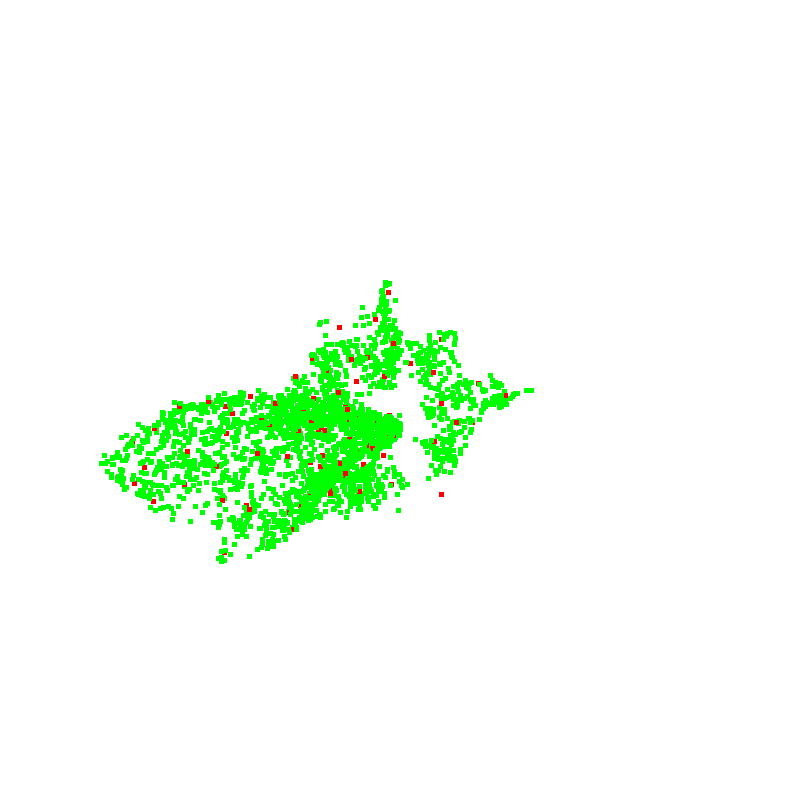
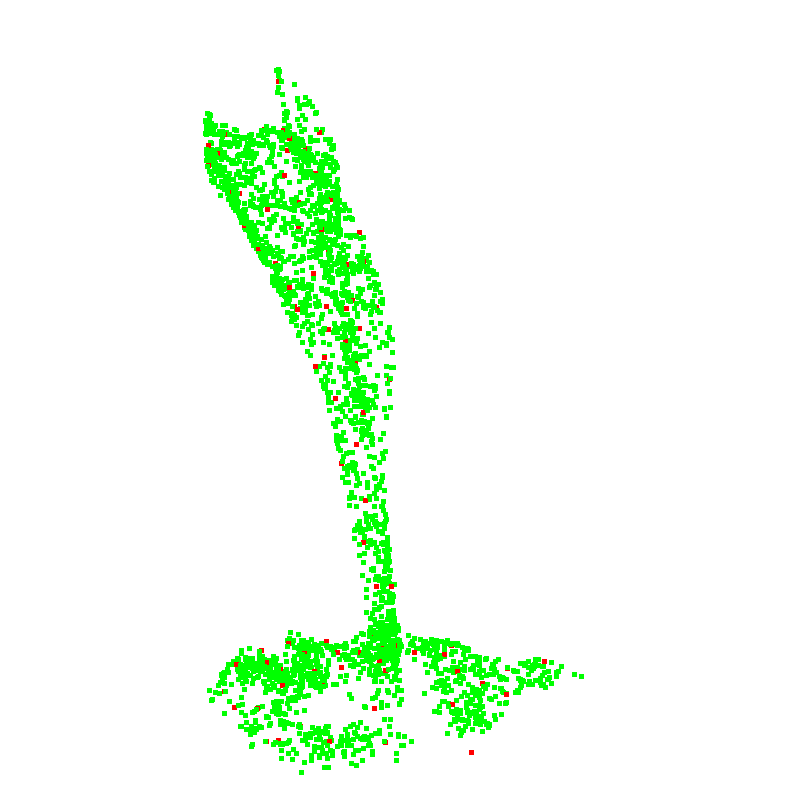
Readme Update

Changed region(s): [[0.125, 0.0938, 0.7188, 0.9688]]

diff --git a/vis3.py b/vis3.py
@@ -1,9 +1,9 @@
 #!/usr/bin/env python3
-# save_visualisations.py  —  v4
+# save_visualisations.py  —  v6 (Pheno4D rotated view)
 # ------------------------------------------------------------
 # • “SAT” folders   : render *candidate_inner_points* (green) vs *selected_inner_points* (red)
 # • non-SAT folders : render *processed*              (green) vs *selected_inner_points* (red)
-# • PNGs saved as: <SOURCE_FOLDER>_<BASE_ID>_<SAT|MLP>.png
+# • Pheno4D: rotate model 90° about X before capture
 # ------------------------------------------------------------
 import os
 from pathlib import Path
@@ -11,7 +11,6 @@ from pathlib import Path
 import numpy as np
 import open3d as o3d
 import trimesh
-from PIL import Image, ImageChops
 
 # ------------------------------------------------------------------
 # Configuration
@@ -24,18 +23,6 @@ FOLDERS     = [
 ]
 RESULTS_DIR = Path("./final-figures")
 RESULTS_DIR.mkdir(parents=True, exist_ok=True)
-
-# ------------------------------------------------------------------
-# Auto-crop white margins (Pillow)
-# ------------------------------------------------------------------
-def autocrop_white(fn: Path):
-    img = Image.open(fn)
-    # white background
-    bg = Image.new(img.mode, img.size, (255, 255, 255))
-    diff = ImageChops.difference(img, bg)
-    bbox = diff.getbbox()
-    if bbox:
-        img.crop(bbox).save(fn)
 
 # ------------------------------------------------------------------
 # Helper – Trimesh → coloured Open3D point cloud
@@ -58,7 +45,6 @@ for folder in FOLDERS:
         continue
 
     is_sat = "SAT" in folder.upper()
-
     if is_sat:
         search_glob  = "*candidate_inner_points*.obj"
         partner_from = "candidate_inner_points"
@@ -79,38 +65,44 @@ for folder in FOLDERS:
             print(f"No partner for {green_path.name} → expected {red_name}")
             continue
 
-        # ---- load meshes ----
+        # load meshes
         try:
             mesh_green = trimesh.load(green_path, process=False)
             mesh_red   = trimesh.load(red_path,   process=False)
         except Exception as e:
-            print(f" Failed loading {green_path.name}: {e}")
+            print(f"Failed loading {green_path.name}: {e}")
             continue
 
-        pcd_green = mesh_to_pcd(mesh_green, rgb=[0,1,0])  # green
-        pcd_red   = mesh_to_pcd(mesh_red,   rgb=[1,0,0])  # red
+        # convert to PCD
+        pcd_green = mesh_to_pcd(mesh_green, rgb=[0,1,0])
+        pcd_red   = mesh_to_pcd(mesh_red,   rgb=[1,0,0])
 
-        # ---- off-screen render ----
+        # Pheno4D: rotate 90° about X-axis
+        if folder.startswith("Pheno4D"):
+            # compute center for rotation
+            mins = np.minimum(pcd_green.get_min_bound(), pcd_red.get_min_bound())
+            maxs = np.maximum(pcd_green.get_max_bound(), pcd_red.get_max_bound())
+            center = (mins + maxs) * 0.5
+            # rotation matrix: -90° around X
+            R = pcd_green.get_rotation_matrix_from_xyz((-np.pi / 2, 0, 0))
+            pcd_green.rotate(R, center)
+            pcd_red.rotate(R, center)
+
+        # setup visualizer
         vis = o3d.visualization.Visualizer()
-        vis.create_window(
-            window_name=base_id,
-            width=800, height=800,
-            visible=False
-        )
+        vis.create_window(window_name=base_id, width=800, height=800, visible=False)
         vis.get_render_option().background_color = np.array([1,1,1])
         vis.add_geometry(pcd_green)
         vis.add_geometry(pcd_red)
+
         vis.poll_events()
         vis.update_renderer()
 
         suffix   = "SAT" if is_sat else "MLP"
-        # <-- include the folder name in the PNG filename here -->
         out_file = RESULTS_DIR / f"{folder}_{base_id}_{suffix}.png"
 
         vis.capture_screen_image(str(out_file), do_render=True)
         vis.destroy_window()
-
-        # autocrop_white(out_file)
 
         print(f"{green_label:9s} vs selected → {out_file}")
 

diff --git a/vis2.py b/vis2.py
@@ -3,9 +3,9 @@ import numpy as np
 #import rerun as rr
 import trimesh
 
-original_cloud_path = "./output/ScanNet/ScanNet_processed59.obj"
+original_cloud_path = "./output/Pheno4D/Shapenet_selected_inner_points1.obj"
 
-processed_cloud_path = "./output/ScanNet/ScanNet_selected_inner_points59.obj"
+processed_cloud_path = "./output/Pheno4D/Shapenet_processed1.obj"
 
 original_cloud = trimesh.load(original_cloud_path)
 processed_cloud = trimesh.load(processed_cloud_path)

diff --git a/README.md b/README.md
@@ -1,1 +1,100 @@
-# AI-517-Final
+# Solving the Set Cover Problem for 3D Shape Skeletonization
+
+![AI-517-Final](assets/skele.png)
+---
+
+## 🚀 Overview
+
+This repository implements a principled, end-to-end pipeline that casts 3D curve–skeleton extraction as a discrete **Set Cover Problem**. Starting from a raw surface point cloud, we:
+
+1. **Generate** a compact pool of interior ball-centers via adaptive Voronoi sampling.  
+2. **Dilate** each center until its ball first touches the surface.  
+3. **Search** for the _smallest_ subset of balls whose union covers all surface samples, via two complementary exact optimizers:  
+   - **MILP formulation** solved with a Mixed-Integer Linear Program.  
+   - **SAT formulation** solved with PySAT.
+
+Our experiments on **ScanNet**, **ShapeNet**, and **Pheno4D** demonstrate that the selected skeleton points are robust to noise and capture thin geometric features faithfully.
+
+---
+
+## 📂 Repository Structure
+
+```text
+AI-517-Final/
+├── input/                       ← raw datasets (not versioned)
+├── output/                      ← intermediate meshes & point-clouds
+│   ├── ScanNet/
+│   ├── ScanNet_SAT/
+│   ├── ShapeNet/
+│   ├── ShapeNet_SAT/
+│   ├── Pheno4D/
+│   └── Pheno4D_SAT/
+├── final-figures/               ← high-resolution visualizations
+├── coverage_axis_pc.py          ← MILP encoding & solver invocation
+├── coverage_axis_pc_sat.py      ← SAT encoding & solver invocation
+├── vis2.py                      ← initial point-cloud visualizer
+├── vis3.py                      ← advanced visualizer (front-view for Pheno4D)
+├── requirements.txt             ← Python dependencies
+└── README.md                    ← this file
+```
+
+⚙ Installation
+
+Clone the repository and install all dependencies in one step:
+
+```bash
+git clone https://github.com/your-username/AI-517-Final.git
+cd AI-517-Final
+python3 -m venv venv            # Create a virtual env (optional but recommended)
+source venv/bin/activate        # Activate it (Linux/macOS)
+# On Windows: .\venv\Scripts\activate
+pip install --upgrade pip
+pip install -r requirements.txt # Install all required packages
+```
+
+
+If you experience errors like `ModuleNotFoundError`, ensure your virtual environment is active and run:
+```bash
+pip install open3d trimesh pillow pulp pysat 
+```
+
+## 📝 Usage
+
+
+### 1. Preprocess & Sample
+
+Populate your raw `.obj` meshes under `input/`. Then run your favorite sampling tool (e.g., Poisson or Voronoi) to produce:
+
+- `*_processed*.obj` (input to MILP)  
+- `*_candidate_inner_points*.obj` (input to SAT)
+
+Place these under the corresponding subfolders in `output/`.
+
+### 2. Solve MILP
+
+```bash
+python coverage_axis_pc.py \
+  --input-folder output/ScanNet \
+  --output-skeleton skel_milp.txt
+```
+This will read all *_processed*.obj meshes, build the MILP, and write a list of selected ball-centers to skel_milp.txt.
+
+### 3. Solve SAT
+
+```bash
+python coverage_axis_pc_sat.py \
+  --input-folder output/ScanNet_SAT \
+  --output-skeleton skel_sat.txt
+```
+
+This will read all *_candidate_inner_points*.obj meshes, encode the set cover as a CNF, and emit the chosen centers to skel_sat.txt.
+
+### 4. Visualize
+
+Generate tight, auto-cropped side-by-side visualizations:
+
+```bash
+python vis3.py
+```
+
+
